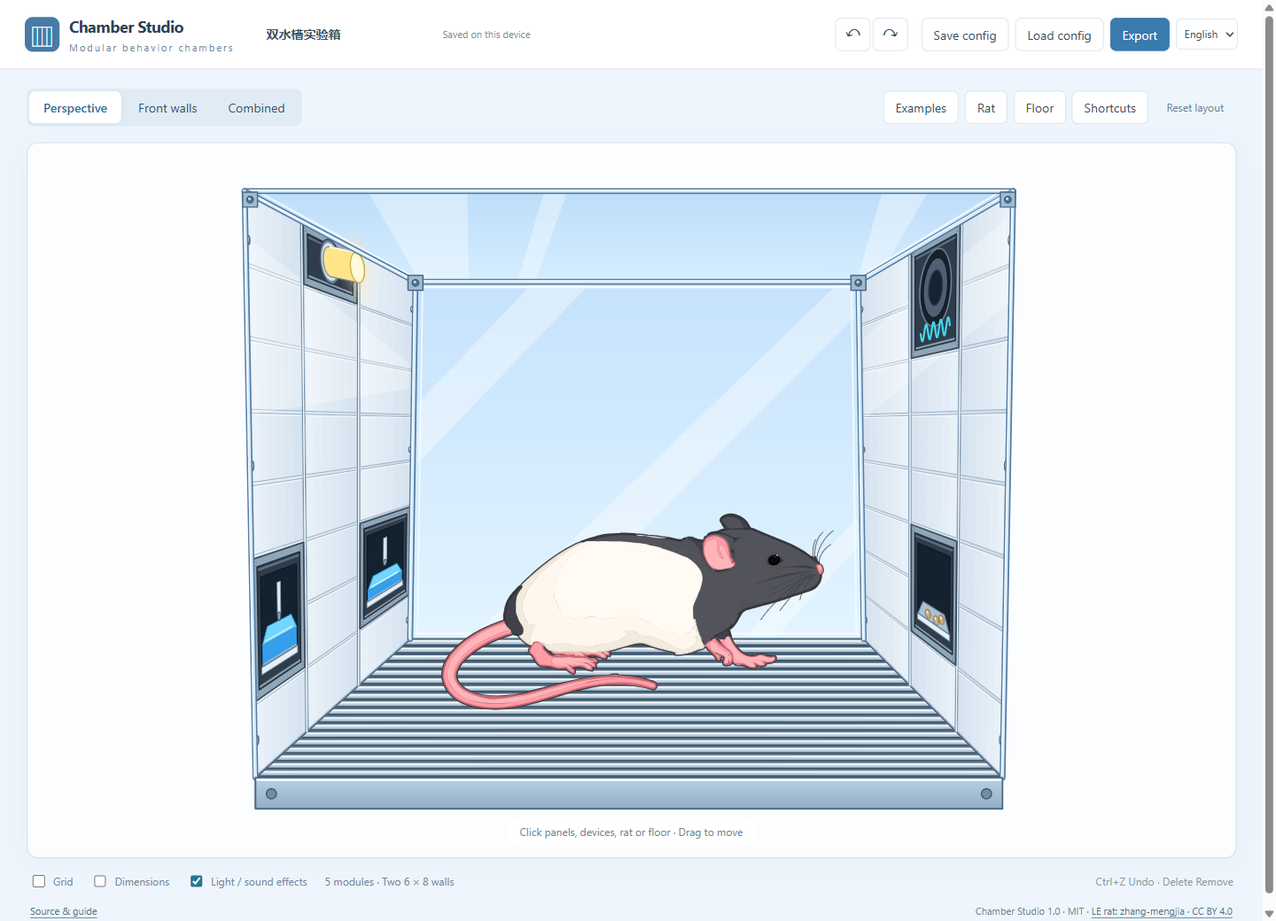
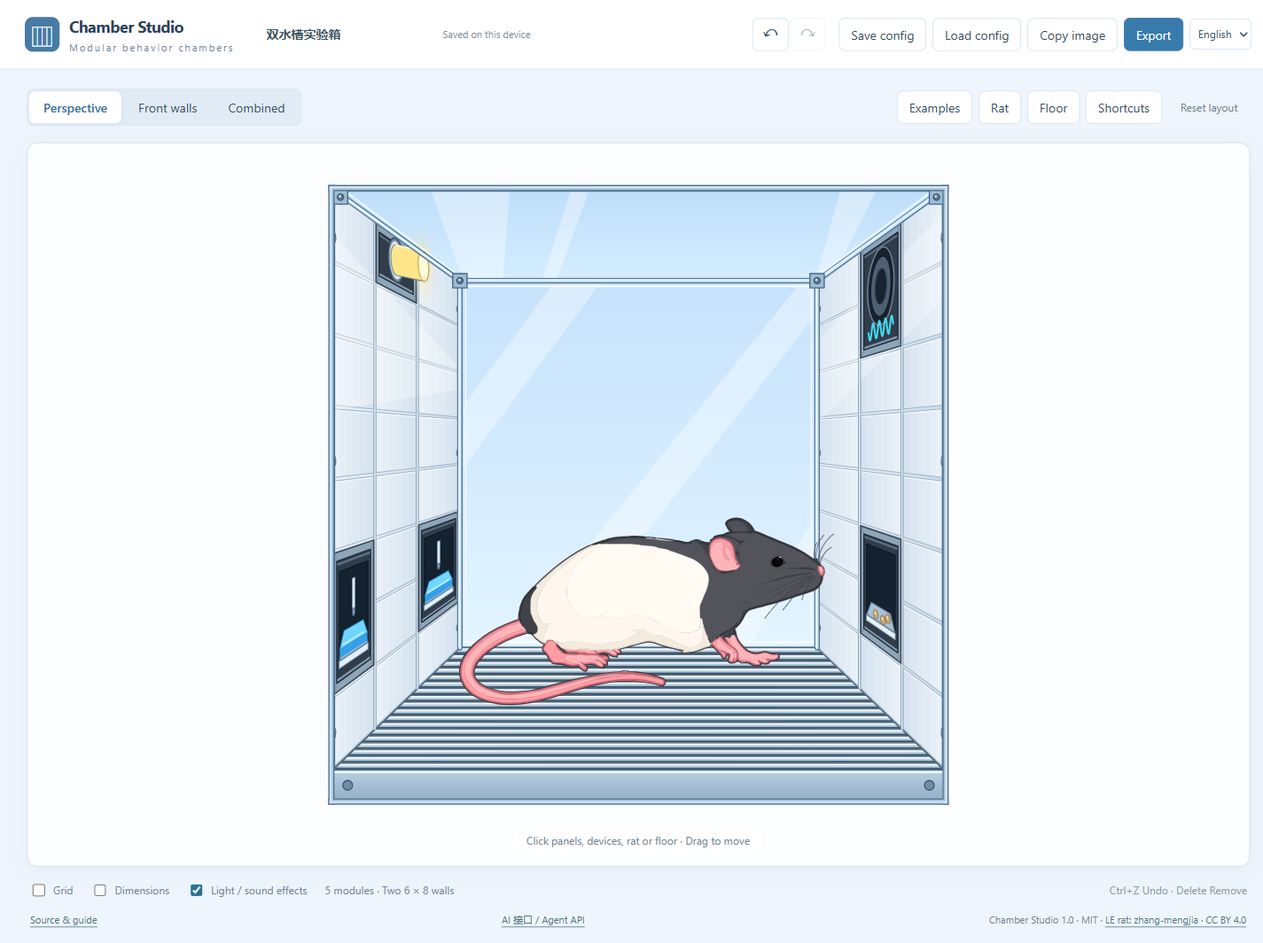
Crop chamber exports to a square frame and add image copying

diff --git a/public/app.js b/public/app.js
@@ -1,10 +1,10 @@
 import {t,getLanguage,setLanguage,cellLabel,countLabel,staticTranslator} from './i18n.js';
 import {MODULES,POSES,STATES,FLAVORS,SOUNDS,VOLUMES,options,defaultState,initial,occupant,place,validate} from './model.js';
-import {buildScene,sceneToSVG} from './scene.js';
+import {buildScene,sceneBounds,sceneToSVG} from './scene.js';
 import {ratScene} from './rat-art.js';
 import {wallRegions,contains} from './geometry.js';
 import {insertModule,UndoHistory} from './editor.js';
-import {download,pptxBlob,pdfBlob,pngBlob} from './export.js';
+import {download,pptxBlob,pdfBlob,pngBlob,copyPng} from './export.js';
 import {createAgentAPI,registerWebMCP} from './agent.js';
 
 const $=id=>document.getElementById(id), KEY='chamber-studio-v1';
@@ -25,7 +25,7 @@ function closePopup(clear=false){popup=null;$('popover').hidden=true;if(clear){s
 function openPopup(kind,x,y){popup={kind,x,y};renderPopup();}
 function placePopup(){if(!popup)return;const el=$('popover'),gap=14,w=el.offsetWidth,h=el.offsetHeight;let x=popup.x+gap,y=popup.y-22;if(x+w>innerWidth-12)x=popup.x-w-gap;el.style.left=Math.max(10,Math.min(x,innerWidth-w-10))+'px';el.style.top=Math.max(12,Math.min(y,innerHeight-h-12))+'px';}
 function polygon(r,cls,extra=''){return `<polygon points="${r.points.map(p=>p.join(',')).join(' ')}" class="${cls}" ${extra}/>`;}
-function previewSVG(){const s=draft||state,box=s.view==='perspective'?'205 40 875 670':s.view==='front'?'165 0 990 675':'200 0 900 760';const drawing=buildScene(s,[],true),regions=wallRegions(s);let overlay='<g class="interaction-layer">';
+function previewSVG(){const s=draft||state,box=s.view==='perspective'?{x:260,y:20,width:760,height:710}:s.view==='front'?{x:165,y:0,width:990,height:675}:{x:200,y:0,width:900,height:760};const drawing=buildScene(s,[],true),regions=wallRegions(s);let overlay='<g class="interaction-layer">';
   for(const r of regions){const label=cellLabel(r.wall,r.col,r.row,r.type?MODULES[r.type].name:'空白面板');overlay+=polygon(r,'hit-zone',`data-wall="${r.wall}" data-col="${r.col}" data-row="${r.row}" data-mode="${r.mode}" tabindex="0" role="button" aria-label="${label}"`);}
   // Devices protruding past a cell boundary retain their own click target.
   const counts=new Map();for(const p of drawing){if(!p.ops||! /^(left|right) .* column \d+ row \d+$/.test(p.owner||''))continue;const n=counts.get(p.owner)||0;counts.set(p.owner,n+1);if(n<2||p.opacity<1)continue;overlay+=sceneToSVG([{...p,fill:p.fill==='none'?'none':'transparent',stroke:'transparent',sw:Math.max(p.sw,3)}],true).replace(/^<svg[^>]*>/,'').replace(/<\/svg>$/,'');}
@@ -35,7 +35,7 @@ function previewSVG(){const s=draft||state,box=s.view==='perspective'?'205 40 87
   overlay+='</g>';
   // Keep rat above wall hit areas; editor-only outlines never enter export scenes.
   const ratTop=sceneToSVG(drawing.filter(p=>p.owner==='Rat'),true).replace(/^<svg[^>]*>/,'').replace(/<\/svg>$/,'');
-  return sceneToSVG(drawing.filter(p=>p.owner!=='Rat'),true).replace('viewBox="0 0 1280 760"',`viewBox="${box}"`).replace('</svg>',overlay+ratTop+'</svg>');
+  return sceneToSVG(drawing.filter(p=>p.owner!=='Rat'),true,box).replace('</svg>',overlay+ratTop+'</svg>');
 }
 function renderPreview(){const focus=document.activeElement?.matches?.('#canvas [data-wall]')?{...document.activeElement.dataset}:null;scene=buildScene(state,[]);$('canvas').innerHTML=previewSVG();if(focus)$('canvas').querySelector(`[data-wall="${focus.wall}"][data-col="${focus.col}"][data-row="${focus.row}"][data-mode="${focus.mode}"]`)?.focus({preventScroll:true});$('canvasNote').textContent=state.view==='front'?t('点击任一面板或模块 · 拖动模块调整位置'):t('点击面板、设备、大鼠或地板 · 拖动调整位置');}
 function render(){normalizeSelection();document.querySelectorAll('[data-view]').forEach(b=>b.classList.toggle('active',b.dataset.view===state.view));$('name').value=state.name;$('undo').disabled=!history.past.length;$('redo').disabled=!history.future.length;for(const [id,key]of [['gridToggle','grid'],['dimensions','dimensions'],['effects','effects']])$(id).checked=state[key];$('totalCount').textContent=countLabel(state.walls.left.length+state.walls.right.length);renderPreview();if(popup)renderPopup();}
@@ -51,11 +51,11 @@ function renderPopup(){if(!popup)return;const body=$('popoverBody');body.replace
     const modules=document.createElement('div');modules.className='modules';for(const [key,d]of Object.entries(MODULES)){const b=button('',()=>{try{if(m?.type===key)return;commit(place(state,selected.wall,selected.col,selected.row,key));}catch(e){toast(t(e.message),true);}},m?.type===key?'active':'');b.innerHTML=`<span><i style="background:${d.color}"></i>${t(d.name)}</span><small>2 × ${d.h}</small>`;b.dataset.module=key;modules.append(b);}body.append(modules);
     const actions=document.createElement('div');actions.className='popup-actions';if(m){actions.append(button(t('复制'),copyModule),button(t('剪切'),cutModule),button(t('删除'),removeSelected,'danger'));}else{const b=button(t('粘贴模块'),pasteModule);b.disabled=!clipboard;actions.append(b);}body.append(actions,hint(m?t('拖动模块移动位置；方向键微调安装格。'):t('直接选择模块安装。2 × 2 模块需连续两行空位。')));
   }else if(popup.kind==='rat'){
-    title=t('大鼠素材');eyebrow=t('海报风黑白 LE 大鼠 · 拖动位置');const poses=document.createElement('div');poses.className='poses';for(const [pose,name]of Object.entries(POSES)){const b=button('',()=>{const n=structuredClone(state);n.rat.pose=pose;n.rat.visible=true;commit(n,{kind:'rat'});},state.rat.pose===pose?'active':'');b.dataset.pose=pose;b.innerHTML=sceneToSVG(ratScene({pose,x:245,y:250,scale:1,facing:'right'}),true).replace('viewBox="0 0 1280 760"','viewBox="25 70 440 265"')+`<span>${t(name)}</span>`;poses.append(b);}body.append(poses);selectField(body,t('朝向'),'facing',{right:t('向右'),left:t('向左')},state.rat.facing,v=>change(n=>n.rat.facing=v));const row=document.createElement('div');row.className='row';row.innerHTML=t('<label for="scale">大小</label><output id="scaleValue">')+Math.round(state.rat.scale*100)+'%</output>';const slider=document.createElement('input');Object.assign(slider,{id:'scale',type:'range',min:'45',max:'170',value:String(Math.round(state.rat.scale*100))});slider.oninput=()=>{if(!scaleStart)scaleStart=structuredClone(state);draft=structuredClone(state);draft.rat.scale=Number(slider.value)/100;$('scaleValue').textContent=slider.value+'%';renderPreview();};slider.onchange=()=>{if(!scaleStart)return;const next=draft;draft=null;scaleStart=null;commit(next);};body.append(row,slider);const actions=document.createElement('div');actions.className='popup-actions';actions.append(button(state.rat.visible?t('隐藏大鼠'):t('显示大鼠'),()=>{const next=structuredClone(state);next.rat.visible=!next.rat.visible;commit(next,next.rat.visible?{kind:'rat'}:null);}),button(t('回到中央'),()=>{const n=structuredClone(state);n.rat.x=650;n.rat.y=535;n.rat.scale=1;n.rat.visible=true;commit(n,{kind:'rat'});}));body.append(actions,hint(t('方向键移动 1 步，Shift + 方向键移动 10 步。')));
+    title=t('大鼠素材');eyebrow=t('海报风黑白 LE 大鼠 · 拖动位置');const poses=document.createElement('div');poses.className='poses';for(const [pose,name]of Object.entries(POSES)){const b=button('',()=>{const n=structuredClone(state);n.rat.pose=pose;n.rat.visible=true;commit(n,{kind:'rat'});},state.rat.pose===pose?'active':'');b.dataset.pose=pose;b.innerHTML=sceneToSVG(ratScene({pose,x:245,y:250,scale:1,facing:'right'}),true,{x:25,y:70,width:440,height:265})+`<span>${t(name)}</span>`;poses.append(b);}body.append(poses);selectField(body,t('朝向'),'facing',{right:t('向右'),left:t('向左')},state.rat.facing,v=>change(n=>n.rat.facing=v));const row=document.createElement('div');row.className='row';row.innerHTML=t('<label for="scale">大小</label><output id="scaleValue">')+Math.round(state.rat.scale*100)+'%</output>';const slider=document.createElement('input');Object.assign(slider,{id:'scale',type:'range',min:'45',max:'170',value:String(Math.round(state.rat.scale*100))});slider.oninput=()=>{if(!scaleStart)scaleStart=structuredClone(state);draft=structuredClone(state);draft.rat.scale=Number(slider.value)/100;$('scaleValue').textContent=slider.value+'%';renderPreview();};slider.onchange=()=>{if(!scaleStart)return;const next=draft;draft=null;scaleStart=null;commit(next);};body.append(row,slider);const actions=document.createElement('div');actions.className='popup-actions';actions.append(button(state.rat.visible?t('隐藏大鼠'):t('显示大鼠'),()=>{const next=structuredClone(state);next.rat.visible=!next.rat.visible;commit(next,next.rat.visible?{kind:'rat'}:null);}),button(t('回到中央'),()=>{const n=structuredClone(state);n.rat.x=650;n.rat.y=535;n.rat.scale=1;n.rat.visible=true;commit(n,{kind:'rat'});}));body.append(actions,hint(t('方向键移动 1 步，Shift + 方向键移动 10 步。')));
   }else if(popup.kind==='floor'){
     title=t('地板');eyebrow=t('箱体底部');const list=document.createElement('div');list.className='floor-options';for(const [value,txt]of [['bars',t('金属横杠')],['acrylic',t('多孔透明亚克力')]]){const b=button('',()=>change(n=>n.floor=value),state.floor===value?'active':'');b.dataset.floor=value;b.innerHTML=`<span class="floor-icon ${value}"></span>${t(txt)}`;list.append(b);}body.append(list);
   }else if(popup.kind==='export'){
-    title=t('导出当前视图');eyebrow=t('矢量图 · 原生可编辑 PPT');selectField(body,t('PNG 分辨率'),'resolution',{1:'1280 × 760',2:'2560 × 1520',3:'3840 × 2280'},exportSettings.resolution,v=>exportSettings.resolution=Number(v));const l=document.createElement('label');l.className='check';l.innerHTML=t('<input id="transparent" type="checkbox">PNG 透明背景');l.querySelector('input').checked=exportSettings.transparent;l.querySelector('input').onchange=e=>exportSettings.transparent=e.target.checked;body.append(l);const actions=document.createElement('div');actions.className='export-buttons';for(const [type,name]of [['pptx',t('保存 PPT')],['pdf','PDF'],['png','PNG']]){const b=button(name,()=>exportFile(type),type==='pptx'?'primary':'');b.dataset.export=type;actions.append(b);}body.append(actions,hint(t('PPT 零件与大鼠各部分可独立编辑。闪烁导出为点亮灯体，图中不添加部件文字。')));
+    title=t('导出当前视图');eyebrow=t('矢量图 · 原生可编辑 PPT');const box=sceneBounds(scene),resolutions=Object.fromEntries([1,2,3].map(scale=>[scale,`${Math.ceil(box.width*scale)} × ${Math.ceil(box.height*scale)}`]));selectField(body,t('PNG 分辨率'),'resolution',resolutions,exportSettings.resolution,v=>exportSettings.resolution=Number(v));const l=document.createElement('label');l.className='check';l.innerHTML=t('<input id="transparent" type="checkbox">PNG 透明背景');l.querySelector('input').checked=exportSettings.transparent;l.querySelector('input').onchange=e=>exportSettings.transparent=e.target.checked;body.append(l);const actions=document.createElement('div');actions.className='export-buttons';for(const [type,name]of [['pptx',t('保存 PPT')],['pdf','PDF'],['png','PNG']]){const b=button(name,()=>exportFile(type),type==='pptx'?'primary':'');b.dataset.export=type;actions.append(b);}body.append(actions,hint(t('PPT 零件与大鼠各部分可独立编辑。闪烁导出为点亮灯体，图中不添加部件文字。')));
   }else if(popup.kind==='examples'){
     title=t('选择示例布局');eyebrow='Chamber Studio';
     for(const [file,name]of [['dual-water','双水槽'],['operant','操作性条件反射'],['empty','空白箱体']]){
@@ -105,6 +105,7 @@ $('undo').onclick=()=>restore('undo');$('redo').onclick=()=>restore('redo');$('r
 for(const [id,key]of [['gridToggle','grid'],['dimensions','dimensions'],['effects','effects']])$(id).onchange=()=>change(n=>n[key]=$(id).checked);
 function saveConfig(){download(new Blob([JSON.stringify(state,null,2)],{type:'application/json'}),state.name+'.chamber.json');}
 $('saveConfig').onclick=saveConfig;$('loadConfig').onclick=()=>$('file').click();$('file').onchange=async()=>{const f=$('file').files[0];if(!f)return;try{if(f.size>1024*1024)throw Error(t('配置文件过大'));closePopup();commit(validate(JSON.parse(await f.text())),null);toast(t('配置已载入'));}catch(e){toast(t('载入失败：')+t(e.message),true);}finally{$('file').value='';}};
+$('copyImage').onclick=async()=>{const b=$('copyImage');b.disabled=true;toast(t('正在复制图片…'));try{await copyPng(scene,exportSettings.resolution,exportSettings.transparent);toast(t('图片已复制，可直接粘贴'));}catch(e){toast(t('复制失败：')+t(e.message==='当前浏览器无法复制图片，请使用 PNG 导出'?e.message:'请允许浏览器写入剪贴板，或使用 PNG 导出'),true);}finally{b.disabled=false;}};
 async function exportFile(type){const buttons=[...document.querySelectorAll('[data-export]')];buttons.forEach(b=>b.disabled=true);toast(t('正在生成 ')+type.toUpperCase()+'…');try{const blob=type==='pptx'?await pptxBlob(scene):type==='pdf'?await pdfBlob(scene):await pngBlob(scene,exportSettings.resolution,exportSettings.transparent);download(blob,(state.name||'chamber').replace(/[<>:"/\\|?*]/g,'_')+'.'+type);toast(type.toUpperCase()+t(' 已生成'));}catch(e){toast(t('导出失败：')+t(e.message),true);console.error(e);}finally{buttons.forEach(b=>b.disabled=false);}}
 document.addEventListener('keydown',e=>{
   if(e.key==='Escape'){e.preventDefault();if(drag||draft)cancelDrag();else closePopup(true);$('canvas').focus({preventScroll:true});return;}

diff --git a/public/export.js b/public/export.js
@@ -1,16 +1,25 @@
-import {W,H,toD,sceneToSVG} from './scene.js';
+import {toD,sceneBounds,sceneToSVG} from './scene.js';
 const xml=s=>String(s).replace(/[&<>"']/g,c=>({'&':'&amp;','<':'&lt;','>':'&gt;','"':'&quot;',"'":'&apos;'}[c]));
 const emu=n=>Math.round(n*9525);
 const hex=c=>(c||'#000000').replace('#','').toUpperCase();
 const solid=(c,opacity=1)=>!c||c==='none'?'<a:noFill/>':`<a:solidFill><a:srgbClr val="${hex(c)}">${opacity<1?`<a:alpha val="${Math.round(opacity*100000)}"/>`:''}</a:srgbClr></a:solidFill>`;
 export function download(blob,filename){const url=URL.createObjectURL(blob);const a=document.createElement('a');a.href=url;a.download=filename;a.click();setTimeout(()=>URL.revokeObjectURL(url),30000);}
 function bounds(s){if(s.text!==undefined){const w=Math.max(20,s.text.length*s.size*.61+12);return [s.x-w/2,s.y-s.size,w,s.size*1.5];}const points=s.ops.flatMap(o=>o.v||[]),xs=points.filter((_,i)=>i%2===0),ys=points.filter((_,i)=>i%2===1),l=Math.min(...xs),t=Math.min(...ys);return [l,t,Math.max(.01,Math.max(...xs)-l),Math.max(.01,Math.max(...ys)-t)];}
-export async function pptxBlob(scene){const raw=await fetch('./assets/template.pptx');if(!raw.ok)throw Error('无法读取 PPT 模板');const z=await JSZip.loadAsync(await raw.arrayBuffer());let id=2;
+export async function pptxBlob(scene){const box=sceneBounds(scene);const raw=await fetch('./assets/template.pptx');if(!raw.ok)throw Error('无法读取 PPT 模板');const z=await JSZip.loadAsync(await raw.arrayBuffer());let id=2;
 function shape(s){const [l,t,w,h]=bounds(s);const nv=`<p:nvSpPr><p:cNvPr id="${id++}" name="${xml(s.name||s.owner)}"/><p:cNvSpPr/><p:nvPr/></p:nvSpPr>`;const xf=`<a:xfrm><a:off x="${emu(l)}" y="${emu(t)}"/><a:ext cx="${emu(w)}" cy="${emu(h)}"/></a:xfrm>`;
 if(s.text!==undefined)return `<p:sp>${nv}<p:spPr>${xf}<a:prstGeom prst="rect"><a:avLst/></a:prstGeom><a:noFill/><a:ln><a:noFill/></a:ln></p:spPr><p:txBody><a:bodyPr wrap="none" lIns="0" rIns="0" tIns="0" bIns="0" anchor="t"/><a:lstStyle/><a:p><a:pPr algn="ctr"/><a:r><a:rPr lang="en-US" sz="${Math.round(s.size*75)}">${solid(s.fill)}<a:latin typeface="Arial"/><a:ea typeface="Microsoft YaHei"/></a:rPr><a:t>${xml(s.text)}</a:t></a:r><a:endParaRPr/></a:p></p:txBody></p:sp>`;
 const point=(v,i=0)=>`<a:pt x="${emu(v[i]-l)}" y="${emu(v[i+1]-t)}"/>`;const commands=s.ops.map(o=>o.op==='M'?`<a:moveTo>${point(o.v)}</a:moveTo>`:o.op==='L'?`<a:lnTo>${point(o.v)}</a:lnTo>`:o.op==='C'?`<a:cubicBezTo>${point(o.v)}${point(o.v,2)}${point(o.v,4)}</a:cubicBezTo>`:o.op==='Q'?`<a:quadBezTo>${point(o.v)}${point(o.v,2)}</a:quadBezTo>`:'<a:close/>').join('');return `<p:sp>${nv}<p:spPr>${xf}<a:custGeom><a:avLst/><a:gdLst/><a:ahLst/><a:cxnLst/><a:rect l="0" t="0" r="r" b="b"/><a:pathLst><a:path w="${emu(w)}" h="${emu(h)}" fill="${s.fill==='none'?'none':'norm'}">${commands}</a:path></a:pathLst></a:custGeom>${solid(s.fill,s.opacity??1)}<a:ln w="${emu(s.sw||0)}" cap="rnd">${solid(s.stroke,s.opacity??1)}<a:round/></a:ln></p:spPr></p:sp>`;}
-const groups=[];for(const s of scene){if(groups.at(-1)?.owner===s.owner)groups.at(-1).items.push(s);else groups.push({owner:s.owner,items:[s]});}let content='';for(const group of groups){const b=group.items.map(bounds);const l=Math.min(...b.map(x=>x[0])),t=Math.min(...b.map(x=>x[1])),r=Math.max(...b.map(x=>x[0]+x[2])),bot=Math.max(...b.map(x=>x[1]+x[3]));const gid=id++;content+=`<p:grpSp><p:nvGrpSpPr><p:cNvPr id="${gid}" name="${xml(group.owner)}"/><p:cNvGrpSpPr/><p:nvPr/></p:nvGrpSpPr><p:grpSpPr><a:xfrm><a:off x="${emu(l)}" y="${emu(t)}"/><a:ext cx="${emu(r-l)}" cy="${emu(bot-t)}"/><a:chOff x="${emu(l)}" y="${emu(t)}"/><a:chExt cx="${emu(r-l)}" cy="${emu(bot-t)}"/></a:xfrm></p:grpSpPr>${group.items.map(shape).join('')}</p:grpSp>`;}
+const groups=[];for(const s of scene){if(groups.at(-1)?.owner===s.owner)groups.at(-1).items.push(s);else groups.push({owner:s.owner,items:[s]});}let content='';for(const group of groups){const b=group.items.map(bounds);const l=Math.min(...b.map(x=>x[0])),t=Math.min(...b.map(x=>x[1])),r=Math.max(...b.map(x=>x[0]+x[2])),bot=Math.max(...b.map(x=>x[1]+x[3]));const gid=id++;content+=`<p:grpSp><p:nvGrpSpPr><p:cNvPr id="${gid}" name="${xml(group.owner)}"/><p:cNvGrpSpPr/><p:nvPr/></p:nvGrpSpPr><p:grpSpPr><a:xfrm><a:off x="${emu(l-box.x)}" y="${emu(t-box.y)}"/><a:ext cx="${emu(r-l)}" cy="${emu(bot-t)}"/><a:chOff x="${emu(l)}" y="${emu(t)}"/><a:chExt cx="${emu(r-l)}" cy="${emu(bot-t)}"/></a:xfrm></p:grpSpPr>${group.items.map(shape).join('')}</p:grpSp>`;}
 z.file('ppt/slides/slide1.xml',`<?xml version="1.0" encoding="UTF-8" standalone="yes"?><p:sld xmlns:a="http://schemas.openxmlformats.org/drawingml/2006/main" xmlns:r="http://schemas.openxmlformats.org/officeDocument/2006/relationships" xmlns:p="http://schemas.openxmlformats.org/presentationml/2006/main"><p:cSld name="Modular chamber"><p:bg><p:bgPr><a:solidFill><a:srgbClr val="FFFFFF"/></a:solidFill><a:effectLst/></p:bgPr></p:bg><p:spTree><p:nvGrpSpPr><p:cNvPr id="1" name=""/><p:cNvGrpSpPr/><p:nvPr/></p:nvGrpSpPr><p:grpSpPr><a:xfrm><a:off x="0" y="0"/><a:ext cx="0" cy="0"/><a:chOff x="0" y="0"/><a:chExt cx="0" cy="0"/></a:xfrm></p:grpSpPr>${content}</p:spTree></p:cSld><p:clrMapOvr><a:masterClrMapping/></p:clrMapOvr></p:sld>`);
+const presentation=await z.file('ppt/presentation.xml').async('string');
+z.file('ppt/presentation.xml',presentation.replace(/<p:sldSz\b[^>]*\/>/,`<p:sldSz cx="${emu(box.width)}" cy="${emu(box.height)}" type="custom"/>`));
 return z.generateAsync({type:'blob',compression:'DEFLATE',mimeType:'application/vnd.openxmlformats-officedocument.presentationml.presentation'});}
-export async function pdfBlob(scene){const {PDFDocument,StandardFonts,rgb}=PDFLib;const doc=await PDFDocument.create();const font=await doc.embedFont(StandardFonts.Helvetica);const page=doc.addPage([W,H]);const color=c=>{if(!c||c==='none')return undefined;const h=hex(c);return rgb(parseInt(h.slice(0,2),16)/255,parseInt(h.slice(2,4),16)/255,parseInt(h.slice(4,6),16)/255);};for(const s of scene){if(s.text!==undefined){const width=font.widthOfTextAtSize(s.text,s.size);page.drawText(s.text,{x:s.x-width/2,y:H-s.y,size:s.size,font,color:color(s.fill)});}else page.drawSvgPath(toD(s.ops),{x:0,y:H,scale:1,color:color(s.fill),borderColor:color(s.stroke),borderWidth:s.stroke==='none'?0:s.sw,opacity:s.opacity??1,borderOpacity:s.opacity??1});}doc.setTitle('Modular chamber configuration');doc.setCreator('Chamber Studio');return new Blob([await doc.save()],{type:'application/pdf'});}
-export async function pngBlob(scene,scale,transparent){const svg=sceneToSVG(scene,transparent);const url=URL.createObjectURL(new Blob([svg],{type:'image/svg+xml'}));try{const img=new Image();img.src=url;await img.decode();const canvas=document.createElement('canvas');canvas.width=W*scale;canvas.height=H*scale;canvas.getContext('2d').drawImage(img,0,0,canvas.width,canvas.height);return await new Promise((ok,no)=>canvas.toBlob(b=>b?ok(b):no(Error('PNG 生成失败')),'image/png'));}finally{URL.revokeObjectURL(url);}}
+export async function pdfBlob(scene){const box=sceneBounds(scene);const {PDFDocument,StandardFonts,rgb}=PDFLib;const doc=await PDFDocument.create();const font=await doc.embedFont(StandardFonts.Helvetica);const page=doc.addPage([box.width,box.height]);const color=c=>{if(!c||c==='none')return undefined;const h=hex(c);return rgb(parseInt(h.slice(0,2),16)/255,parseInt(h.slice(2,4),16)/255,parseInt(h.slice(4,6),16)/255);};for(const s of scene){if(s.text!==undefined){const width=font.widthOfTextAtSize(s.text,s.size);page.drawText(s.text,{x:s.x-box.x-width/2,y:box.height+box.y-s.y,size:s.size,font,color:color(s.fill)});}else page.drawSvgPath(toD(s.ops),{x:-box.x,y:box.height+box.y,scale:1,color:color(s.fill),borderColor:color(s.stroke),borderWidth:s.stroke==='none'?0:s.sw,opacity:s.opacity??1,borderOpacity:s.opacity??1});}doc.setTitle('Modular chamber configuration');doc.setCreator('Chamber Studio');return new Blob([await doc.save()],{type:'application/pdf'});}
+export async function pngBlob(scene,scale=2,transparent=true){const box=sceneBounds(scene),svg=sceneToSVG(scene,transparent,box);const url=URL.createObjectURL(new Blob([svg],{type:'image/svg+xml'}));try{const img=new Image();img.src=url;await img.decode();const canvas=document.createElement('canvas');canvas.width=Math.ceil(box.width*scale);canvas.height=Math.ceil(box.height*scale);canvas.getContext('2d').drawImage(img,0,0,canvas.width,canvas.height);return await new Promise((ok,no)=>canvas.toBlob(b=>b?ok(b):no(Error('PNG 生成失败')),'image/png'));}finally{URL.revokeObjectURL(url);}}
+export async function copyPng(scene,scale=2,transparent=true){
+  if(!globalThis.ClipboardItem||!navigator.clipboard?.write)throw Error('当前浏览器无法复制图片，请使用 PNG 导出');
+  // Start the write in the click gesture, even while PNG rendering is pending.
+  const image=pngBlob(scene,scale,transparent);
+  image.catch(()=>{});
+  await navigator.clipboard.write([new ClipboardItem({'image/png':image})]);
+}

diff --git a/public/scene.js b/public/scene.js
@@ -1,11 +1,56 @@
 import {MODULES,defaultState,options,FLAVORS,VOLUMES} from './model.js';
 import {ratScene} from './rat-art.js';
-import {WALLS,wallPoint} from './geometry.js';
+import {CHAMBER,WALLS,wallPoint} from './geometry.js';
 
 export const W=1280,H=760;
 const esc=s=>String(s).replace(/[&<>\"]/g,c=>({'&':'&amp;','<':'&lt;','>':'&gt;','"':'&quot;'}[c]));
 export function toD(ops){return ops.map(o=>o.op+(o.v||[]).map(v=>+v.toFixed(3)).join(' ')).join(' ');}
-export function sceneToSVG(scene,transparent=false){return `<svg xmlns="http://www.w3.org/2000/svg" width="${W}" height="${H}" viewBox="0 0 ${W} ${H}">${transparent?'':`<rect width="${W}" height="${H}" fill="white"/>`}${scene.map(s=>s.text!==undefined?`<text x="${s.x}" y="${s.y}" font-family="Arial, sans-serif" font-size="${s.size}" fill="${s.fill}" text-anchor="${s.align||'middle'}">${esc(s.text)}</text>`:`<path data-owner="${esc(s.owner||'')}" d="${toD(s.ops)}" opacity="${s.opacity??1}" fill="${s.fill||'none'}" stroke="${s.stroke||'none'}" stroke-width="${s.sw||0}" stroke-linejoin="round" stroke-linecap="round"/>`).join('')}</svg>`;}
+// Include painted strokes and curve extrema, without adding export padding.
+export function sceneBounds(scene){
+  let left=Infinity,top=Infinity,right=-Infinity,bottom=-Infinity;
+  const include=(x,y,pad=0)=>{left=Math.min(left,x-pad);top=Math.min(top,y-pad);right=Math.max(right,x+pad);bottom=Math.max(bottom,y+pad);};
+  const extrema=(p0,p1,p2,p3)=>{
+    const a=-p0+3*p1-3*p2+p3,b=2*(p0-2*p1+p2),c=p1-p0;
+    if(Math.abs(a)<1e-12)return Math.abs(b)<1e-12?[]:[-c/b];
+    const d=b*b-4*a*c;
+    return d<0?[]:[(-b+Math.sqrt(d))/(2*a),(-b-Math.sqrt(d))/(2*a)];
+  };
+  const cubic=(p0,p1,p2,p3,t)=>{const u=1-t;return u*u*u*p0+3*u*u*t*p1+3*u*t*t*p2+t*t*t*p3;};
+  for(const s of scene){
+    if(s.opacity===0)continue;
+    if(s.text!==undefined){
+      if(!s.fill||s.fill==='none'||!s.text)continue;
+      let width=s.text.length*s.size*.61,ascent=s.size*.8,descent=s.size*.2;
+      if(typeof document!=='undefined'){
+        const ctx=document.createElement('canvas').getContext('2d');ctx.font=`${s.size}px Arial`;
+        const metrics=ctx.measureText(s.text);width=metrics.width;ascent=metrics.actualBoundingBoxAscent;descent=metrics.actualBoundingBoxDescent;
+      }
+      const x=s.x-(s.align==='start'?0:s.align==='end'?width:width/2);
+      include(x,s.y-ascent);include(x+width,s.y+descent);continue;
+    }
+    const stroked=s.stroke&&s.stroke!=='none'&&(s.sw||0)>0;
+    if((!s.fill||s.fill==='none')&&!stroked)continue;
+    const pad=stroked?s.sw/2:0;
+    let current=[0,0],start=current;
+    for(const {op,v} of s.ops){
+      if(op==='M'){current=v;start=v;include(...v,pad);}
+      else if(op==='L'){include(...v,pad);current=v;}
+      else if(op==='Z'){include(...start,pad);current=start;}
+      else if(op==='C'||op==='Q'){
+        const end=v.slice(-2),p1=v.slice(0,2);
+        const controls=op==='C'?[p1,v.slice(2,4)]:[
+          current.map((p,i)=>p+2*(p1[i]-p)/3),end.map((p,i)=>p+2*(p1[i]-p)/3)
+        ];
+        include(...end,pad);
+        const ts=[...extrema(current[0],controls[0][0],controls[1][0],end[0]),...extrema(current[1],controls[0][1],controls[1][1],end[1])];
+        for(const t of ts)if(t>0&&t<1)include(...[0,1].map(i=>cubic(current[i],controls[0][i],controls[1][i],end[i],t)),pad);
+        current=end;
+      }
+    }
+  }
+  return Number.isFinite(left)?{x:left,y:top,width:Math.max(1,right-left),height:Math.max(1,bottom-top)}:{x:0,y:0,width:1,height:1};
+}
+export function sceneToSVG(scene,transparent=false,viewport=sceneBounds(scene)){const {x,y,width,height}=viewport;return `<svg xmlns="http://www.w3.org/2000/svg" width="${width}" height="${height}" viewBox="${x} ${y} ${width} ${height}">${transparent?'':`<rect x="${x}" y="${y}" width="${width}" height="${height}" fill="white"/>`}${scene.map(s=>s.text!==undefined?`<text x="${s.x}" y="${s.y}" font-family="Arial, sans-serif" font-size="${s.size}" fill="${s.fill}" text-anchor="${s.align||'middle'}">${esc(s.text)}</text>`:`<path data-owner="${esc(s.owner||'')}" d="${toD(s.ops)}" opacity="${s.opacity??1}" fill="${s.fill||'none'}" stroke="${s.stroke||'none'}" stroke-width="${s.sw||0}" stroke-linejoin="round" stroke-linecap="round"/>`).join('')}</svg>`;}
 function mapped(ops,fn){return ops.map(o=>({op:o.op,v:(o.v||[]).flatMap((_,i,a)=>i%2?[]:fn(a[i],a[i+1]))}));}
 function blend(a,b,t){return '#'+[1,3,5].map(i=>Math.round(parseInt(a.slice(i,i+2),16)*(1-t)+parseInt(b.slice(i,i+2),16)*t).toString(16).padStart(2,'0')).join('');}
 
@@ -184,7 +229,7 @@ export function buildScene(state,ratPaths,preview=false){
   }
 
   function floor(){
-    owner='Floor';const corners=[[435,505],[860,505],[990,635],[290,635]],xy=(u,v)=>wallPoint(corners,u,v);
+    owner='Floor';const corners=CHAMBER.floor,xy=(u,v)=>wallPoint(corners,u,v);
     surface(corners,state.floor==='bars'?'#485e71':'#cde9fa',state.floor==='bars'?'#6b8295':'#e7f7ff',20);
     poly(corners,'none','#526e85',1.8);
     if(state.floor==='bars'){
@@ -203,20 +248,27 @@ export function buildScene(state,ratPaths,preview=false){
     }
   }
   function perspective(){
-    owner='Box glass ceiling';glass([[280,85],[1000,85],[855,170],[440,170]],'#bdddf9','#d4edff',true);
-    owner='Box glass back';glass([[440,170],[855,170],[860,505],[435,505]],'#c5e2fc','#e3f4ff');
+    owner='Box glass ceiling';glass(CHAMBER.ceiling,'#bdddf9','#d4edff',true);
+    owner='Box glass back';glass(CHAMBER.back,'#c5e2fc','#e3f4ff');
     floor();wall(WALLS.perspective.left,'left');wall(WALLS.perspective.right,'right');
     owner='Box frame';
-    for(const [a,b]of [[[280,85],[1000,85]],[[280,85],[440,170]],[[855,170],[1000,85]],[[440,170],[855,170]],[[440,170],[435,505]],[[855,170],[860,505]],[[280,85],[290,635]],[[1000,85],[990,635]]]){
+    const [tl,tr,br,bl]=CHAMBER.ceiling,[,,backRight,backLeft]=CHAMBER.back;
+    for(const [a,b]of [[tl,tr],[tl,bl],[br,tr],[bl,br],[bl,backLeft],[br,backRight],[tl,CHAMBER.sill[0]],[tr,CHAMBER.sill[1]]]){
       line(a,b,'#557b9f',5.5);line(a,b,'#d6ecff',2.8);line([a[0]-1,a[1]-1],[b[0]-1,b[1]-1],'#f7fcff',1);
     }
-    const sill=[[290,635],[990,635],[990,664],[290,664]];
-    surface(sill,'#b9d0e4','#92acc4',12);poly(sill,'none','#4b6883',1.6);line([292,637],[988,637],'#f2faff',2.2);
-    for(const [x,y]of [[285,93],[995,93],[440,171],[855,171]]){
+    surface(CHAMBER.sill,'#b9d0e4','#92acc4',12);poly(CHAMBER.sill,'none','#4b6883',1.6);line([342,637],[938,637],'#f2faff',2.2);
+    for(const [x,y]of [[348,73],[932,73],[465,155],[815,155]]){
       poly([[x-7,y-7],[x+7,y-7],[x+7,y+7],[x-7,y+7]],'#9ebbd4','#476785',1.2);
       ellipse(x,y,3.1,3.1,'#5a768f','#334f69',.9);ellipse(x-.6,y-.8,1.15,1.1,'#d9edfb','none',0);
     }
-    for(const x of [305,975])ellipse(x,650,4.7,4.7,'#718da6','#3b536b',1.1);
+    for(const x of [355,925])ellipse(x,650,4.7,4.7,'#718da6','#3b536b',1.1);
+    // Filled, axis-aligned rails give every export an exact square outer edge.
+    owner='Box outer frame';const {x,y,width,height}=CHAMBER.bounds;
+    const frame=(inset,thickness,fill)=>{
+      const l=x+inset,t=y+inset,r=x+width-inset,b=y+height-inset;
+      for(const pts of [[[l,t],[r,t],[r,t+thickness],[l,t+thickness]],[[l,b-thickness],[r,b-thickness],[r,b],[l,b]],[[l,t],[l+thickness,t],[l+thickness,b],[l,b]],[[r-thickness,t],[r,t],[r,b],[r-thickness,b]]])poly(pts,fill);
+    };
+    frame(0,6,'#4b6883');frame(1,4,'#a8c5df');frame(2,1,'#edf8ff');
     if(state.rat.visible)scene.push(...ratScene(state.rat));
   }
   function front(){

diff --git a/public/index.html b/public/index.html
@@ -4,7 +4,7 @@
 <header>
   <div class="brand"><span class="mark">▥</span><div><strong>Chamber Studio</strong><small>模块化实验箱</small></div></div>
   <div class="project"><input id="name" aria-label="方案名称" maxlength="80"><span id="saved">已保存在本机</span></div>
-  <nav aria-label="文件与编辑"><div class="history"><button id="undo" title="撤销 Ctrl+Z" aria-label="撤销">↶</button><button id="redo" title="重做 Ctrl+Y / Ctrl+Shift+Z" aria-label="重做">↷</button></div><button id="saveConfig" title="保存配置 Ctrl+S">保存配置</button><button id="loadConfig">载入配置</button><button id="exportMenu" class="primary">导出图片 / PPT</button><input id="file" type="file" accept=".json" hidden><select id="language" aria-label="Language / 语言"><option value="zh">中文</option><option value="en">English</option></select></nav>
+  <nav aria-label="文件与编辑"><div class="history"><button id="undo" title="撤销 Ctrl+Z" aria-label="撤销">↶</button><button id="redo" title="重做 Ctrl+Y / Ctrl+Shift+Z" aria-label="重做">↷</button></div><button id="saveConfig" title="保存配置 Ctrl+S">保存配置</button><button id="loadConfig">载入配置</button><button id="copyImage">复制图片</button><button id="exportMenu" class="primary">导出图片 / PPT</button><input id="file" type="file" accept=".json" hidden><select id="language" aria-label="Language / 语言"><option value="zh">中文</option><option value="en">English</option></select></nav>
 </header>
 <main>
   <div class="preview-toolbar"><div class="switch" id="views"><button data-view="perspective">箱体透视</button><button data-view="front">墙面正视</button><button data-view="combined">布局说明</button></div><div class="tools"><button id="examples">示例</button><button id="ratTool">大鼠</button><button id="floorTool">地板</button><button id="shortcutHelp" title="常用快捷键">快捷键</button><button id="reset" class="quiet">恢复初始布局</button></div></div>

diff --git a/public/i18n.js b/public/i18n.js
@@ -5,6 +5,9 @@ export const english = {
   '文件与编辑':'File and edit', '撤销':'Undo', '重做':'Redo', '撤销 Ctrl+Z':'Undo Ctrl+Z',
   '重做 Ctrl+Y / Ctrl+Shift+Z':'Redo Ctrl+Y / Ctrl+Shift+Z', '保存配置 Ctrl+S':'Save configuration Ctrl+S',
   '保存配置':'Save config', '载入配置':'Load config', '导出图片 / PPT':'Export',
+  '复制图片':'Copy image', '正在复制图片…':'Copying image…', '图片已复制，可直接粘贴':'Image copied; ready to paste',
+  '复制失败：':'Copy failed: ', '当前浏览器无法复制图片，请使用 PNG 导出':'This browser cannot copy images; export a PNG instead',
+  '请允许浏览器写入剪贴板，或使用 PNG 导出':'Allow clipboard access in your browser, or export a PNG',
   '箱体透视':'Perspective', '墙面正视':'Front walls', '布局说明':'Combined',
   '大鼠':'Rat', '地板':'Floor', '快捷键':'Shortcuts', '常用快捷键':'Keyboard shortcuts',
   '恢复初始布局':'Reset layout', '安装网格':'Grid', '单位尺寸':'Dimensions',

diff --git a/public/geometry.js b/public/geometry.js
@@ -1,7 +1,14 @@
 import {MODULES, occupant} from './model.js';
 
+export const CHAMBER = {
+  bounds:{x:336,y:61,width:608,height:608},
+  ceiling:[[340,65],[940,65],[815,155],[465,155]],
+  back:[[465,155],[815,155],[815,515],[465,515]],
+  floor:[[465,515],[815,515],[940,635],[340,635]],
+  sill:[[340,635],[940,635],[940,665],[340,665]]
+};
 export const WALLS = {
-  perspective: {left:[[280,85],[440,170],[435,505],[290,635]], right:[[855,170],[1000,85],[990,635],[860,505]]},
+  perspective: {left:[[340,65],[465,155],[465,515],[340,635]], right:[[815,155],[940,65],[940,635],[815,515]]},
   front: {left:[[230,85],[570,85],[570,565],[230,565]], right:[[750,85],[1090,85],[1090,565],[750,565]]}
 };
 export function wallPoint(corners,u,v) {

diff --git a/README.md b/README.md
@@ -33,11 +33,14 @@ Try **Examples** for dual water wells, an operant chamber or an empty chamber. L
 Choose metal bars or perforated transparent acrylic for the floor. The black-and-white Long–Evans rat keeps its original pose, with ivory fur, coral skin and stronger outlines; move, scale, mirror or hide it. Blue glass reflections, silver wall panels and shaded metal bars follow the poster illustration style. Perspective, front-wall and combined views share one vector drawing engine, including the editable shading and reflections.
 
 - **PowerPoint:** native editable vector shapes and text, grouped by component. Enter or ungroup a component to edit its parts. The rat retains 117 source vector paths plus an editable silhouette outline.
-- **PDF:** vector paths and text on a 1280 × 760 point page.
-- **PNG:** 1280 × 760, 2560 × 1520 or 3840 × 2280, optionally transparent.
+- **PDF / SVG:** vector paths and text, cropped to the drawing bounds.
+- **PNG:** 1×, 2× or 3× the cropped drawing size, optionally transparent. The perspective chamber has straight outer edges and exports at 608 × 608, 1216 × 1216 or 1824 × 1824 without exterior padding.
+- **Copy image:** copies the same cropped PNG to the clipboard for pasting into documents, slides or messages. Uses the current PNG resolution and transparency settings; requires clipboard access in a supported browser on HTTPS or localhost.
 - **Configuration:** portable JSON includes modules, parameters, rat, floor and view settings.
 
 Figures omit device labels, including water amounts, food flavors, sound names and flashing frequencies. Click a device to inspect its settings; configuration files retain these parameters. Older configurations with labels enabled also render without device text. A flashing lamp exports as a lit lamp. Front-wall views omit the rat and floor. Water levels, food colors, light halos and sound waves are schematic; this tool does not control hardware or play audio.
+
+All image, PDF and PowerPoint exports share the same tight bounds. Front-wall and combined views retain their layout proportions. External dimensions or a rat moved beyond the chamber expand the bounds to keep that content visible.
 
 ## Shortcuts
 

diff --git a/docs/guide.zh-CN.md b/docs/guide.zh-CN.md
@@ -47,7 +47,9 @@
 - 保存配置：下载 `.chamber.json`，以后使用“载入配置”继续修改。左右墙、模块参数、地板、大鼠和视图选项均随文件保存。
 - PPT：原生 PowerPoint 自由曲线和文本。每个设备以组合形式保存，进入组合或取消组合可编辑内部零件。箱体、轨道、地板及大鼠也为矢量对象。
 - PDF：矢量路径和文字，单页尺寸与当前视图一致。
-- PNG：可选 1280×760、2560×1520、3840×2280，以及透明背景。
+- PNG：可选裁紧后绘图尺寸的 1、2、3 倍，以及透明背景。常规箱体透视图为 608×608、1216×1216、1824×1824，四边平直，箱体外沿紧贴图片边缘。
+- 复制图片：顶部按钮将当前视图复制为 PNG，可直接粘贴到文档、PPT 或聊天窗口，沿用 PNG 分辨率和透明背景设置。浏览器需支持并允许剪贴板写入，网页需运行在 HTTPS 或 localhost 下。
+- 所有图片、PDF 和 PPT 均按绘图边界裁紧。正视图与布局说明图保留比例；外部尺寸标注或箱体之外的大鼠会扩展边界，避免截断。
 - 部件文字：绘图和所有导出均不添加部件名称、水量、口味、声音名称或频率说明；点击部件查看参数。旧配置即使启用了部件标注，也使用无部件文字的绘图方式。
 - 闪烁：网页动态预览；静态导出使用点亮灯体，频率保存在配置文件中。
 - 正视图展示两面墙，地板和大鼠仅在透视图及布局说明图中出现。

diff --git a/public/api/README.md b/public/api/README.md
@@ -72,7 +72,7 @@ Check `ok` after every call. `INVALID_ARGUMENT` covers unknown fields, wrong typ
 
 ## Export and retrieve files
 
-Formats: `json`, `svg`, `png`, `pdf`, `pptx`. PNG `scale` is 1, 2 (default), or 3, producing 1280×760, 2560×1520 or 3840×2280. `transparent` defaults to `true` and applies to PNG and SVG. PDF and PPTX retain their normal white page backgrounds. Export captures a snapshot of the current configuration.
+Formats: `json`, `svg`, `png`, `pdf`, `pptx`. Image, PDF and PPTX exports use the same tight drawing bounds without exterior padding. The perspective chamber has a square, straight outer frame: PNG `scale` 1, 2 (default), or 3 produces 608×608, 1216×1216 or 1824×1824. Front-wall and combined views keep their layout proportions; external dimensions or a rat outside the chamber expand the bounds to preserve that content. `transparent` defaults to `true` and applies to PNG and SVG. PDF and PPTX retain their normal white page backgrounds. Export captures a snapshot of the current configuration.
 
 By default, `result` contains `filename`, `mimeType`, `size`, `format`, `encoding:"base64"`, `data` and `attribution`. Decode `data` into a local file; it is not a remote URL. Use `{format:"pptx",download:true}` to trigger a browser download, which returns metadata with `downloaded:true` and omits the base64 data. Browser download initiation alone does not confirm that a file has been saved: await the browser's download event when using this mode.
 

diff --git a/README.zh-CN.md b/README.zh-CN.md
@@ -30,6 +30,10 @@
 
 PPT 使用原生自由曲线和文字，设备按组件组合，可进入或取消组合编辑内部零件；大鼠保留 117 条原始矢量路径，并新增一条可编辑的整体轮廓。PDF 为矢量，PNG 可选三档分辨率和透明背景。绘图和导出均不显示部件文字标注，包括水量、食物口味、声音名称和闪烁频率；点击部件仍可查看和调整参数，配置文件保留这些设置。旧配置即使启用了文字标注，也按无部件标注方式绘制。玻璃反光与金属高光也使用可编辑矢量形状。
 
+箱体透视图的外框为四边平直的正方形，PNG 默认可导出 608 × 608、1216 × 1216 或 1824 × 1824，图片四边紧贴箱体外沿。SVG、PDF 与 PPT 同步按绘图边界裁紧。正视图和布局说明图保留各自比例；显示外部尺寸或将大鼠移到箱体之外时，导出边界会扩展以保留这些内容。
+
+点击顶部「复制图片」可将当前视图直接复制为 PNG，粘贴到 Word、PPT 或聊天窗口。复制沿用导出菜单中的 PNG 分辨率和透明背景设置，需要浏览器在 HTTPS 或 localhost 下支持并允许写入剪贴板。
+
 ## AI 访问
 
 AI 可通过带版本号的浏览器接口读取实验箱、批量修改布局、撤销重做，并导出 JSON、SVG、PNG、PDF 或原生可编辑的 PPTX：
